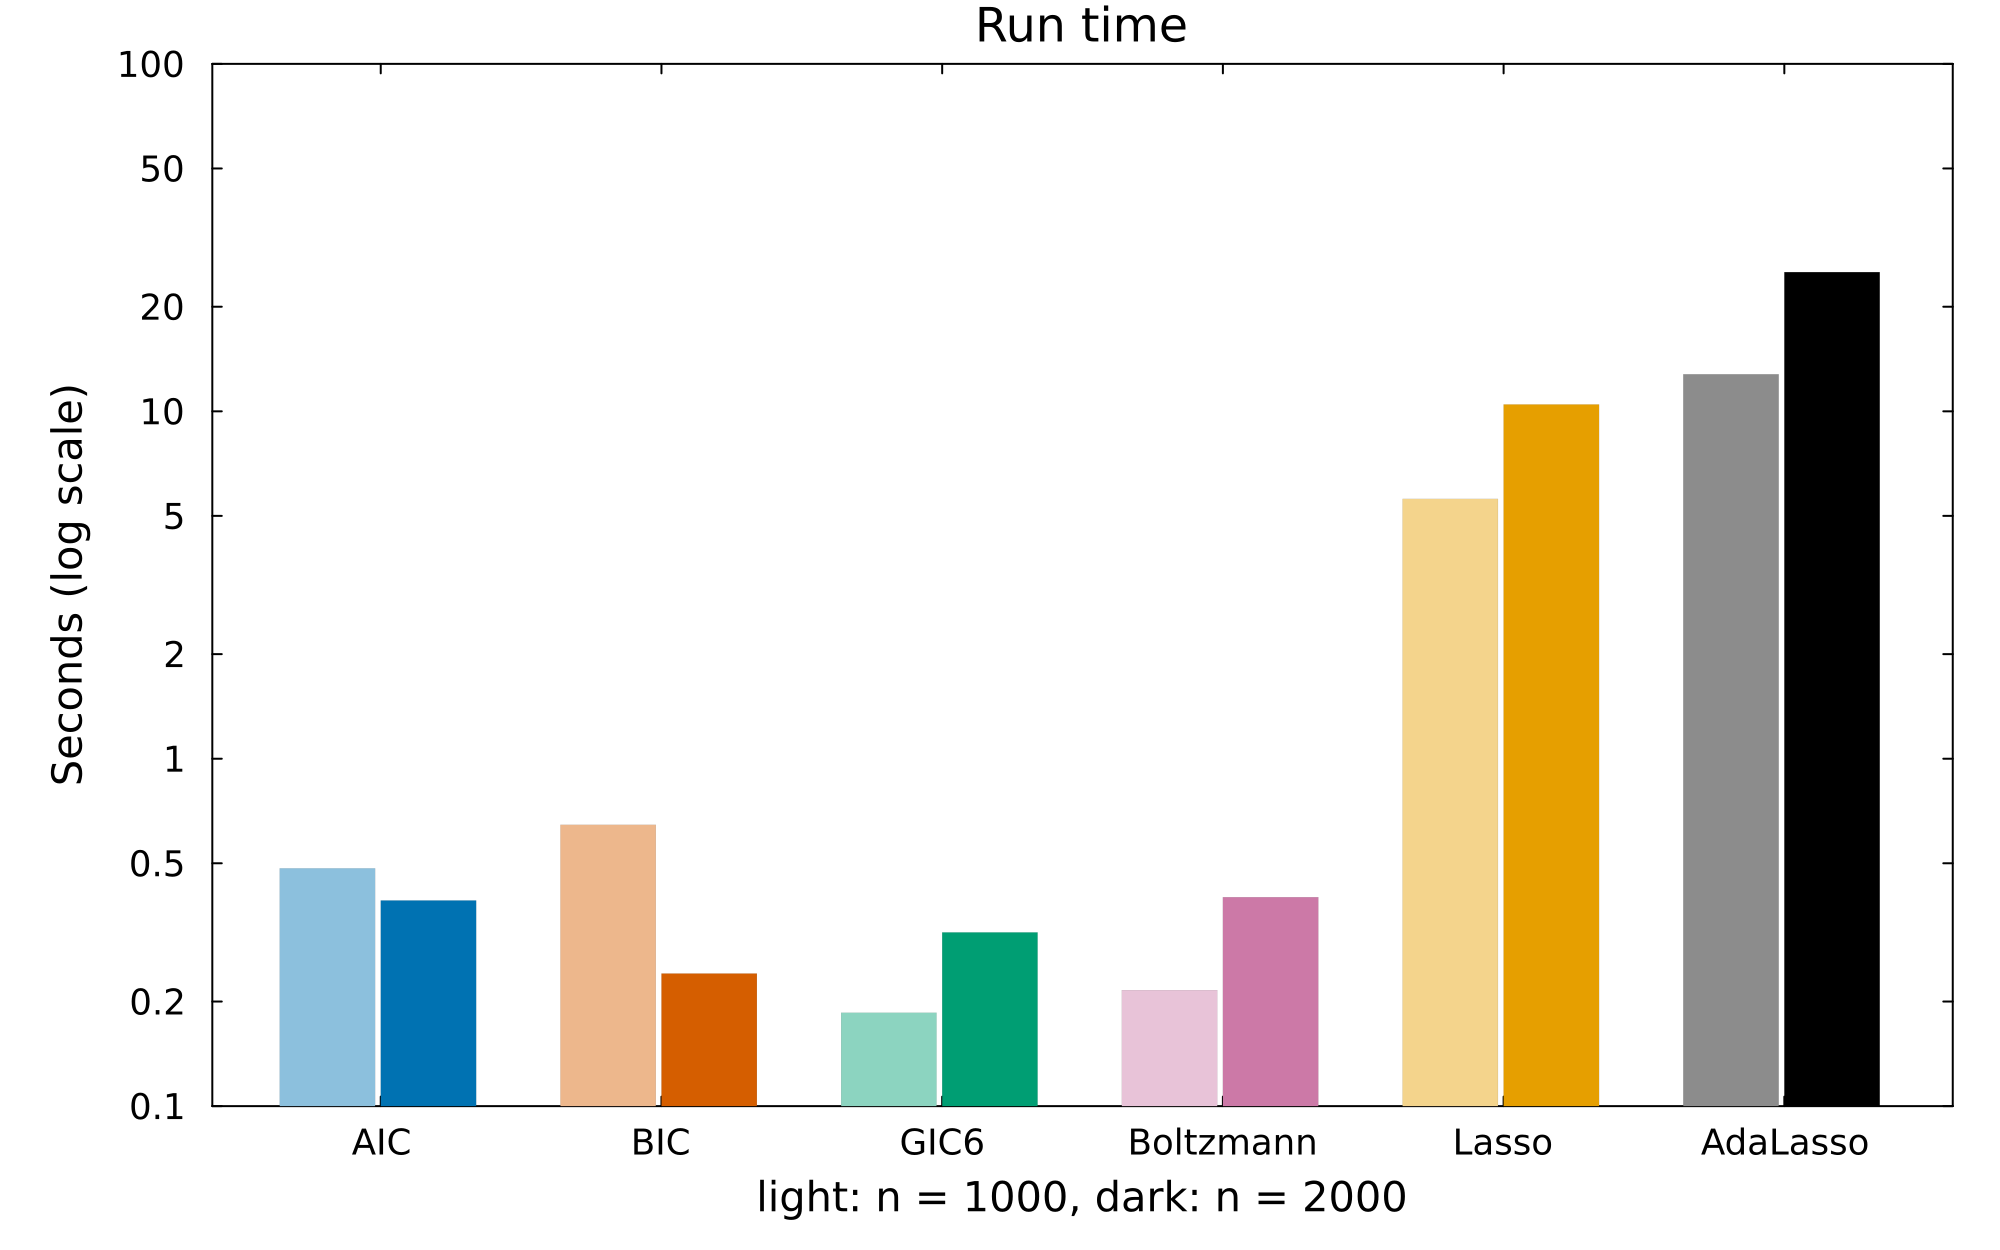
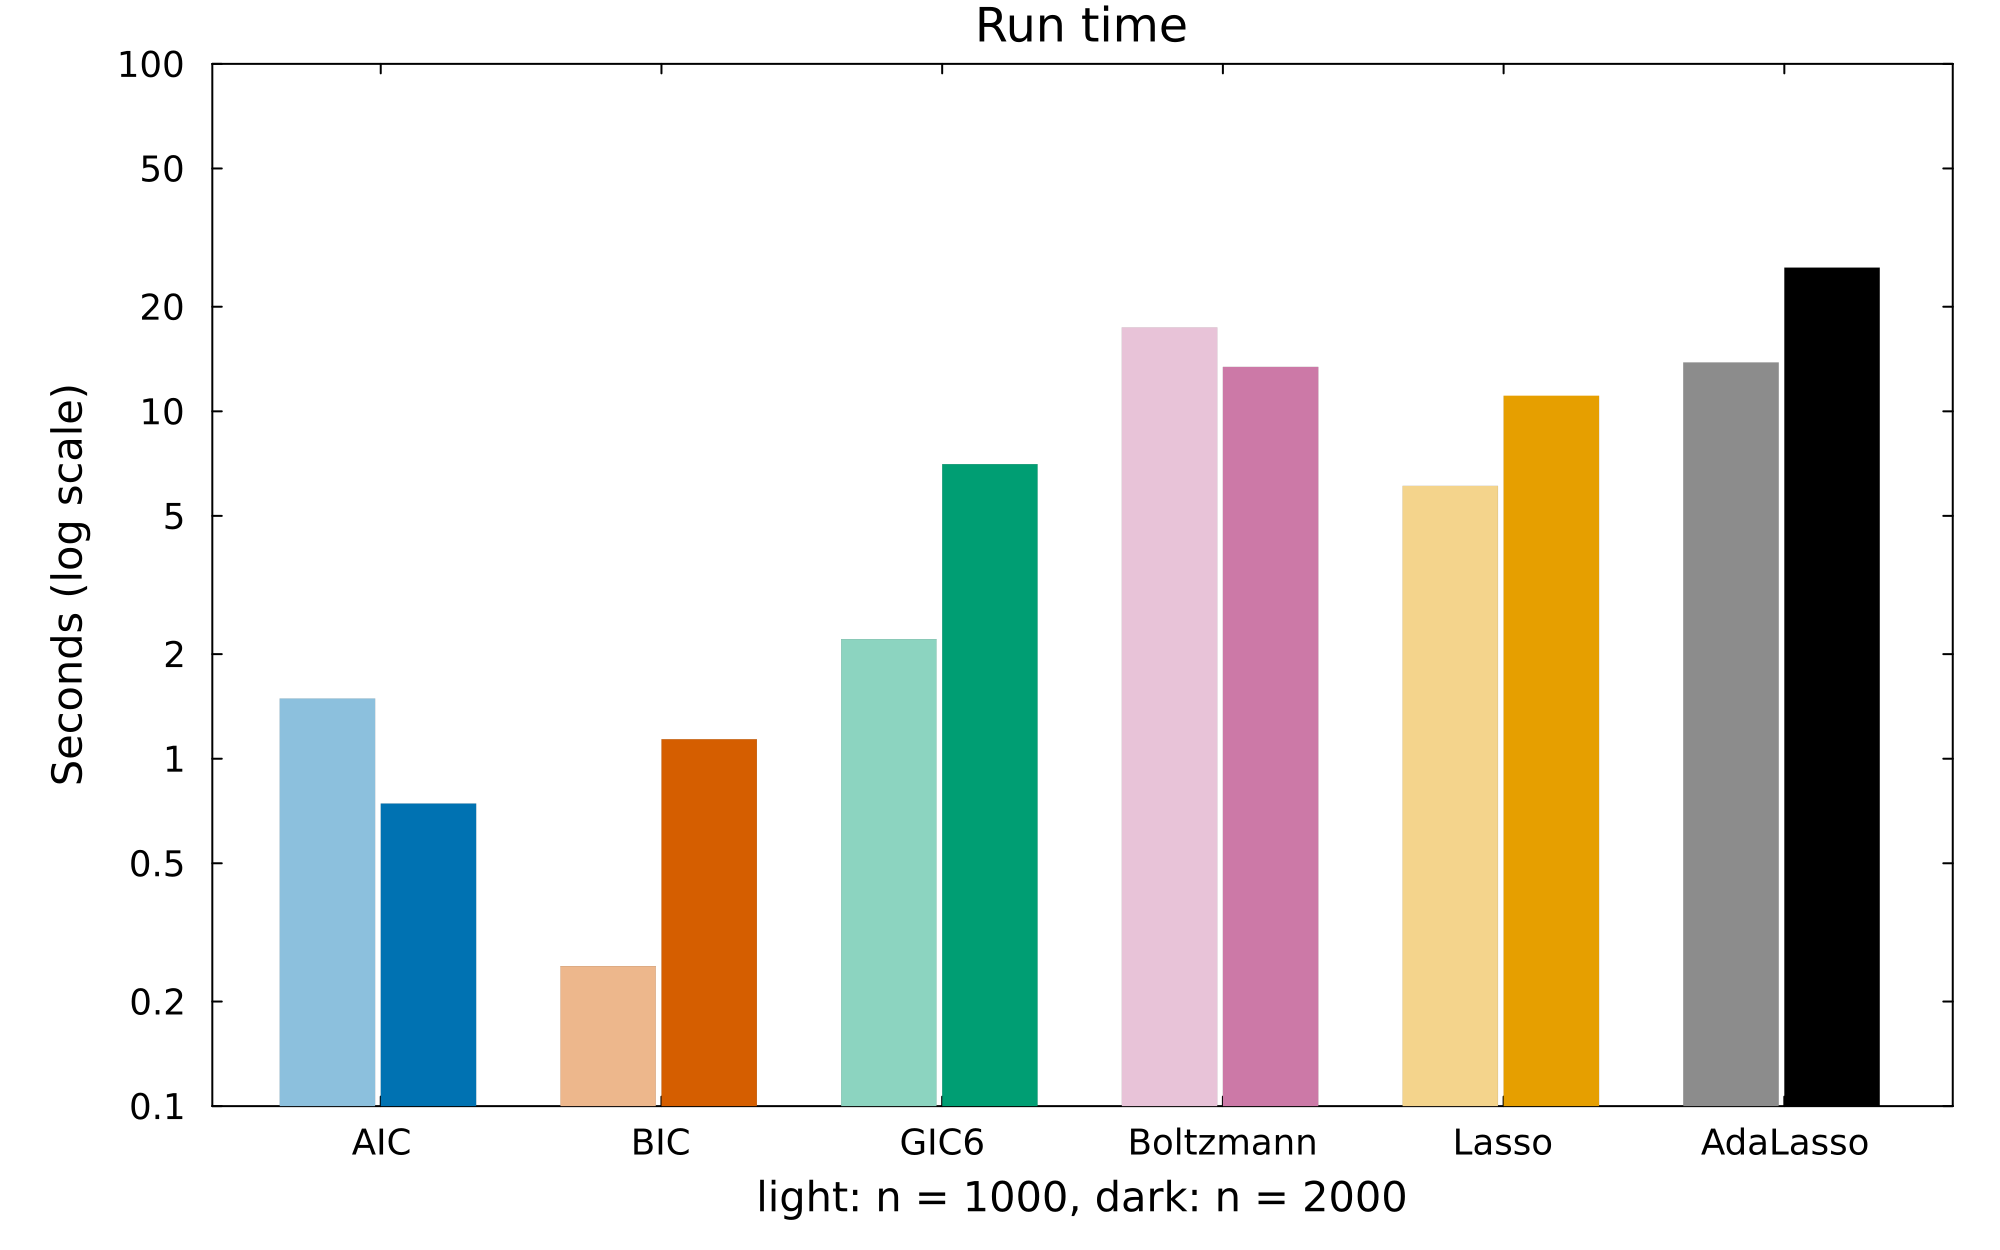
Figures: match the R README's plots and log scales
- Criterion figure: signed log scale, sign(y) log10(1 + |y|), for the
  linear and multivariate examples, labelled in the original units, with
  round-number ticks when the values span less than a decade.
- Model-size figure: switch to a log scale when any model, including the
  lasso and adaptive lasso, has more than 100 predictors, and draw a lasso
  model with no predictors at 1, as in the R README.
- README: describe the lasso horizontal lines in the visible paragraph
  above the examples, as in the R README.

Figures and README output regenerated with docs/readme_figures.jl; model
sizes, false positives and false negatives are unchanged, only run times
differ.

diff --git a/README.md b/README.md
@@ -177,8 +177,10 @@ takes the same arguments, with `k` and `Nsim` as keywords.
 Each table reports the size, false positives and false negatives of the
 selected model, and the wall-clock time of each method in seconds (Apple M1
 Pro laptop, Julia 1.11, after Julia has compiled). Three figures follow each
-table: the criterion along the search, the model size along the search, and
-the same run times as the table.
+table: the criterion along the search, the model size along the search, with
+the number of predictors the lasso and the adaptive lasso select at the
+cross-validated $\lambda$ (the smallest cross-validated loss) as horizontal
+lines, and the same run times as the table.
 
 <!-- Helper functions used in the examples (hidden; run by docs/readme_figures.jl)
 
@@ -293,8 +295,7 @@ variables after each search step: solid lines for $n = 1000$ and dotted lines
 for $n = 2000$. Light grey vertical lines mark a new pass over the
 predictors, and the dashed line marks the true model size. Criteria with
 larger penalties take lower values, so compare the shapes of the curves, not
-their heights. The lasso and adaptive lasso have no search path; horizontal
-lines in the model-size figure mark their model sizes. The script
+their heights. The script
 [`docs/readme_figures.jl`](docs/readme_figures.jl) runs the code in this
 section and redraws the figures.
 -->
@@ -337,18 +338,18 @@ Y = LP_to_Y(X, beta, "Normal"; std = sqrt(sum(abs2, beta) / 0.71))
 fits = compare_criteria(X, Y, 1:p, p; Nsim = 5)
 selection_table(fits, true_cols)
 #>                  size false_pos false_neg seconds
-#> n1000 AIC         119       114         0    0.47
-#> n1000 BIC          10         5         0    0.32
-#> n1000 GIC6          5         0         0    0.18
-#> n1000 Boltzmann     5         0         0    0.17
-#> n1000 Lasso        11         6         0    2.26
-#> n1000 AdaLasso     44        39         0    5.04
-#> n2000 AIC          97        92         0    0.52
-#> n2000 BIC          10         5         0    0.54
-#> n2000 GIC6          5         0         0    0.43
-#> n2000 Boltzmann     7         2         0    0.28
-#> n2000 Lasso        23        18         0    3.02
-#> n2000 AdaLasso     39        34         0     8.3
+#> n1000 AIC         119       114         0    1.21
+#> n1000 BIC          10         5         0    3.46
+#> n1000 GIC6          5         0         0    2.54
+#> n1000 Boltzmann     5         0         0    1.99
+#> n1000 Lasso        11         6         0    2.45
+#> n1000 AdaLasso     44        39         0    5.17
+#> n2000 AIC          97        92         0    0.86
+#> n2000 BIC          10         5         0    0.35
+#> n2000 GIC6          5         0         0    1.85
+#> n2000 Boltzmann     7         2         0    0.27
+#> n2000 Lasso        23        18         0     3.2
+#> n2000 AdaLasso     39        34         0    8.52
 ```
 
 <p align="center"><img src="docs/figures/README-linear-criterion.png" alt="Criterion along the search, linear model with p = 500" width="85%"></p>
@@ -378,18 +379,18 @@ true_union = sort(unique(reduce(vcat, true_by_response)))
 fits = compare_criteria(X, Y_multi, 1:p, p; Nsim = 5, lasso_family = MvNormal())
 selection_table(fits, true_union)
 #>                  size false_pos false_neg seconds
-#> n1000 AIC          93        69         1    0.48
-#> n1000 BIC          20         0         5    0.65
-#> n1000 GIC6         20         0         5    0.19
-#> n1000 Boltzmann    84        63         4    0.22
-#> n1000 Lasso       132       107         0    5.59
-#> n1000 AdaLasso     24         2         3   12.78
-#> n2000 AIC          76        51         0    0.39
-#> n2000 BIC          22         0         3    0.24
-#> n2000 GIC6         20         0         5    0.32
-#> n2000 Boltzmann   133       112         4     0.4
-#> n2000 Lasso       131       106         0   10.47
-#> n2000 AdaLasso     54        30         1   25.16
+#> n1000 AIC          93        69         1    1.49
+#> n1000 BIC          20         0         5    0.25
+#> n1000 GIC6         20         0         5    2.21
+#> n1000 Boltzmann    84        63         4   17.43
+#> n1000 Lasso       132       107         0     6.1
+#> n1000 AdaLasso     24         2         3   13.82
+#> n2000 AIC          76        51         0    0.74
+#> n2000 BIC          22         0         3    1.14
+#> n2000 GIC6         20         0         5    7.05
+#> n2000 Boltzmann   133       112         4   13.42
+#> n2000 Lasso       131       106         0   11.09
+#> n2000 AdaLasso     54        30         1   25.92
 ```
 
 <p align="center"><img src="docs/figures/README-multivariate-criterion.png" alt="Criterion along the search, multivariate normal response" width="85%"></p>
@@ -426,18 +427,18 @@ y_pois = LP_to_Y(X, beta, "Poisson")
 fits = compare_glm(y_pois, y_pois, Poisson(), "Poisson")
 selection_table(fits, true_cols)
 #>                  size false_pos false_neg seconds
-#> n1000 AIC          49        45         1    0.02
-#> n1000 BIC           7         2         0    0.01
-#> n1000 GIC6          5         0         0     0.0
-#> n1000 Boltzmann    49        46         2    0.09
-#> n1000 Lasso        24        19         0    6.04
-#> n1000 AdaLasso      5         0         0    7.28
-#> n2000 AIC          49        45         1    0.03
-#> n2000 BIC           6         1         0    0.02
-#> n2000 GIC6          5         0         0    0.02
-#> n2000 Boltzmann    49        48         4    0.07
-#> n2000 Lasso        28        23         0    5.03
-#> n2000 AdaLasso      5         0         0   14.36
+#> n1000 AIC          49        45         1    0.18
+#> n1000 BIC           7         2         0    0.11
+#> n1000 GIC6          5         0         0    0.06
+#> n1000 Boltzmann    49        46         2     0.1
+#> n1000 Lasso        24        19         0    6.13
+#> n1000 AdaLasso      5         0         0    7.47
+#> n2000 AIC          49        45         1    0.14
+#> n2000 BIC           6         1         0    0.01
+#> n2000 GIC6          5         0         0     0.4
+#> n2000 Boltzmann    49        48         4    0.22
+#> n2000 Lasso        28        23         0    5.24
+#> n2000 AdaLasso      5         0         0   14.46
 
 # Coefficients of the GIC6 model for n = 2000, intercept first
 round.(Beta_estimate(y_pois, X[:, last_model(fits.n2000.GIC6)]; family = "Poisson"), digits = 2)
@@ -463,18 +464,18 @@ y_binom = LP_to_Y(X, beta, "Binomial"; n_trials = 10)
 fits = compare_glm(y_binom, [10 .- y_binom y_binom], Binomial(), "Binomial"; n_trials = 10)
 selection_table(fits, true_cols)
 #>                  size false_pos false_neg seconds
-#> n1000 AIC          49        46         2    0.02
-#> n1000 BIC          10         5         0     0.0
-#> n1000 GIC6          5         0         0     0.0
-#> n1000 Boltzmann     5         0         0    0.01
-#> n1000 Lasso        43        38         0     4.0
-#> n1000 AdaLasso     46        41         0     7.5
-#> n2000 AIC          49        47         3    0.02
+#> n1000 AIC          49        46         2    0.08
+#> n1000 BIC          10         5         0    0.08
+#> n1000 GIC6          5         0         0    0.02
+#> n1000 Boltzmann     5         0         0     0.1
+#> n1000 Lasso        43        38         0     4.1
+#> n1000 AdaLasso     46        41         0    7.74
+#> n2000 AIC          49        47         3    0.04
 #> n2000 BIC           8         3         0    0.01
-#> n2000 GIC6          5         0         0    0.01
-#> n2000 Boltzmann     5         0         0    0.01
-#> n2000 Lasso        42        37         0    4.74
-#> n2000 AdaLasso     77        72         0   14.11
+#> n2000 GIC6          5         0         0    0.02
+#> n2000 Boltzmann     5         0         0    0.07
+#> n2000 Lasso        42        37         0    4.97
+#> n2000 AdaLasso     77        72         0   14.24
 ```
 
 <p align="center"><img src="docs/figures/README-binomial-criterion.png" alt="Criterion along the search, binomial response" width="85%"></p>
@@ -496,18 +497,18 @@ onehot = Float64[y == c for y in y_mn, c in 1:3]
 fits = compare_glm(y_mn, onehot, Multinomial(), "Multinomial"; n_categories = 3)
 selection_table(fits, true_cols)
 #>                  size false_pos false_neg seconds
-#> n1000 AIC          49        46         2     0.1
-#> n1000 BIC           6         1         0     0.1
-#> n1000 GIC6          5         0         0    0.04
+#> n1000 AIC          49        46         2    0.05
+#> n1000 BIC           6         1         0    0.02
+#> n1000 GIC6          5         0         0    0.05
 #> n1000 Boltzmann     5         0         0    0.01
-#> n1000 Lasso       101        96         0   14.48
-#> n1000 AdaLasso     64        59         0   13.36
-#> n2000 AIC          49        46         2    0.14
-#> n2000 BIC           5         0         0    0.18
-#> n2000 GIC6          5         0         0    0.23
-#> n2000 Boltzmann    14         9         0    0.01
-#> n2000 Lasso        87        82         0    31.2
-#> n2000 AdaLasso     15        10         0   28.02
+#> n1000 Lasso       101        96         0   14.33
+#> n1000 AdaLasso     64        59         0   13.61
+#> n2000 AIC          49        46         2    0.09
+#> n2000 BIC           5         0         0    0.02
+#> n2000 GIC6          5         0         0    0.01
+#> n2000 Boltzmann    14         9         0    0.02
+#> n2000 Lasso        87        82         0   31.54
+#> n2000 AdaLasso     15        10         0   29.73
 ```
 
 <p align="center"><img src="docs/figures/README-multinomial-criterion.png" alt="Criterion along the search, multinomial response" width="85%"></p>
